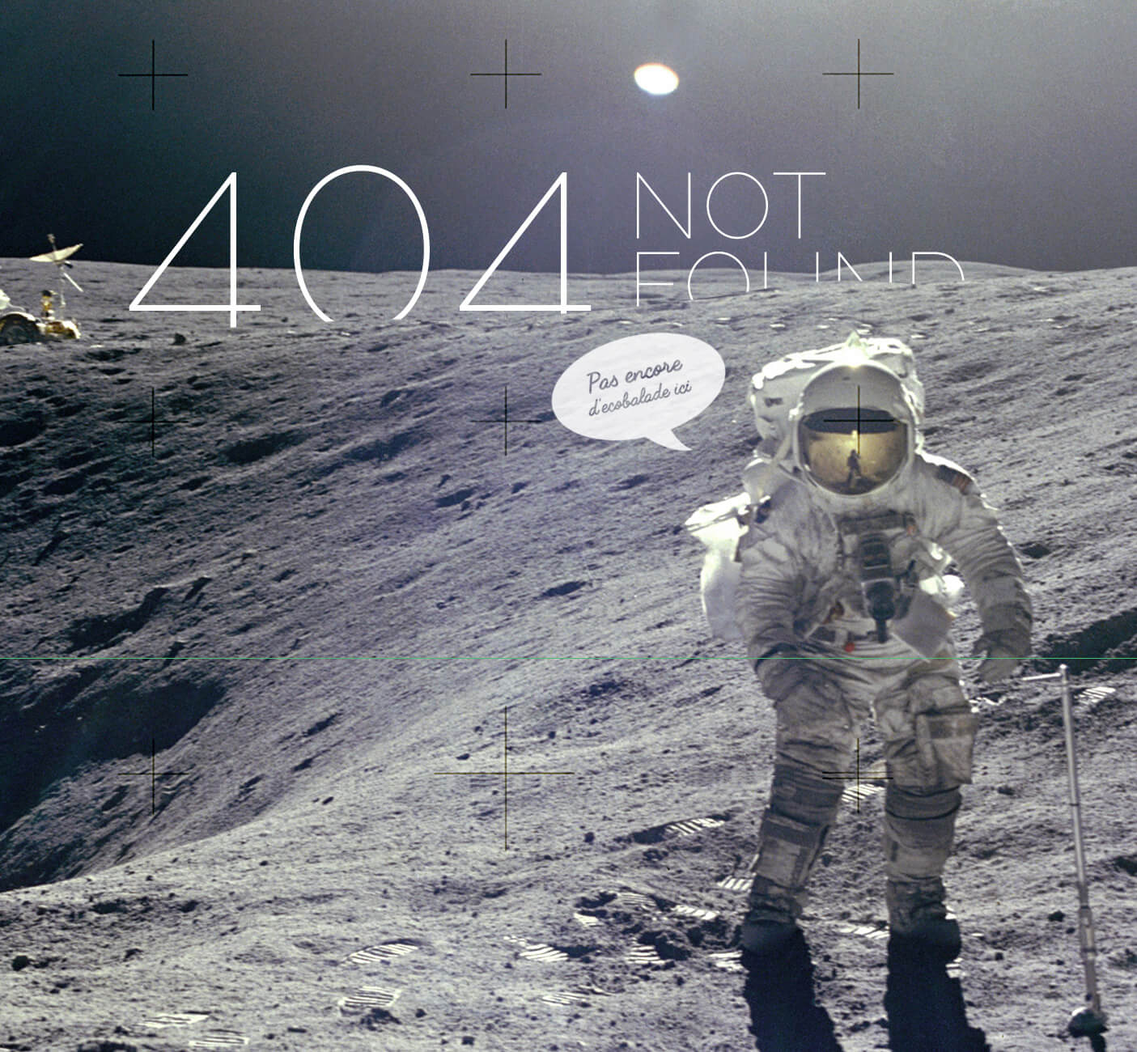
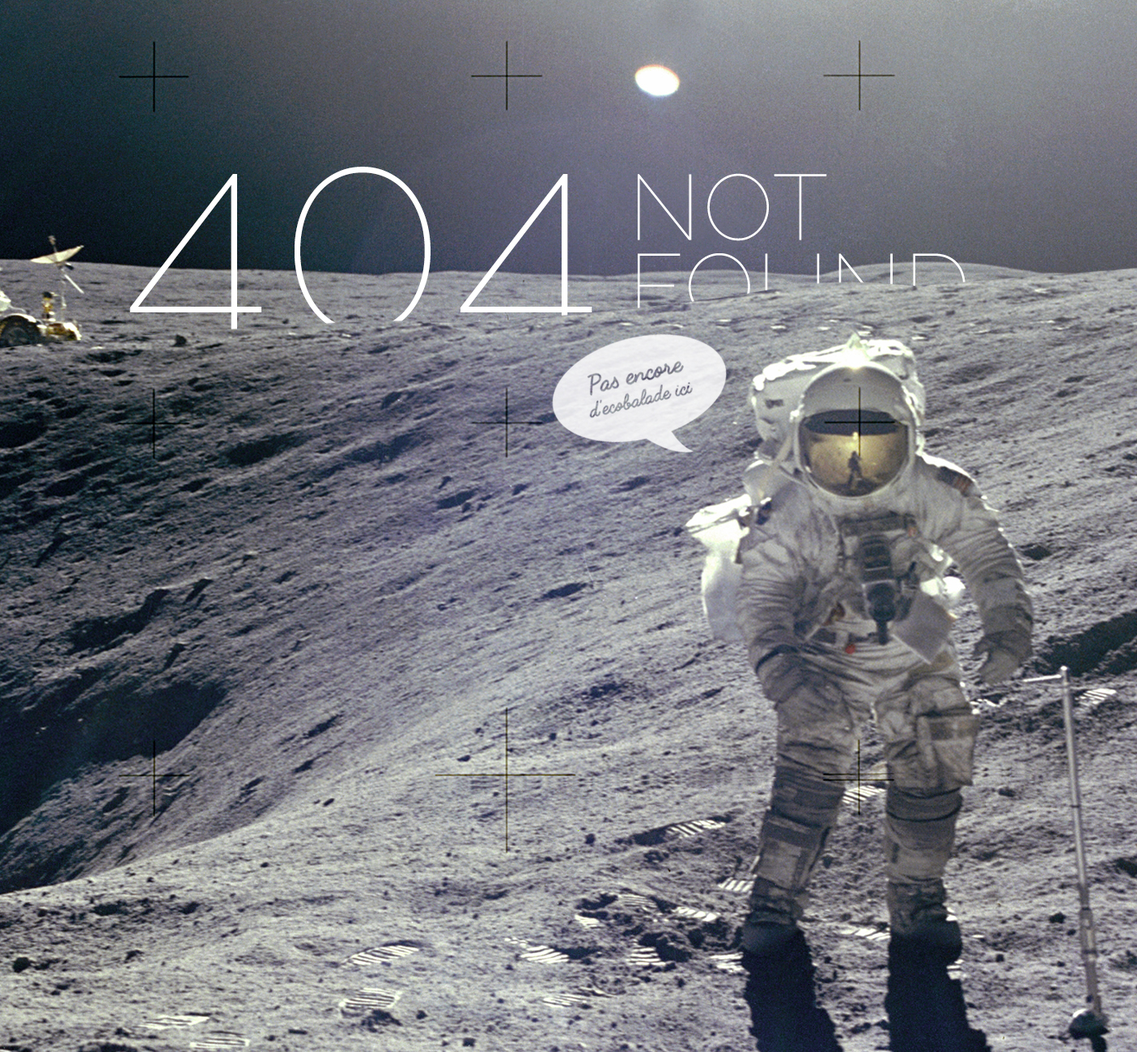
[#122107931] Amélioration page 404

diff --git a/ecobaladeTwitter/css/ecobalade-bootstrap.css b/ecobaladeTwitter/css/ecobalade-bootstrap.css
@@ -5627,6 +5627,20 @@ body.page-node-2469 div.row-fluid.monTitle{
   }
 }
 
+@media (max-width: 674px) {  
+  body.page-node-2469 div.section404{
+    background-position: 42% 22%;
+  }
+}
+
+
+@media (max-width: 570px) {  
+  body.page-node-2469 div.section404{ 
+    background-image: url('../img/404/404_xxs.jpg');
+    background-position: 42% 5%;
+  }
+}
+
 
 
 
